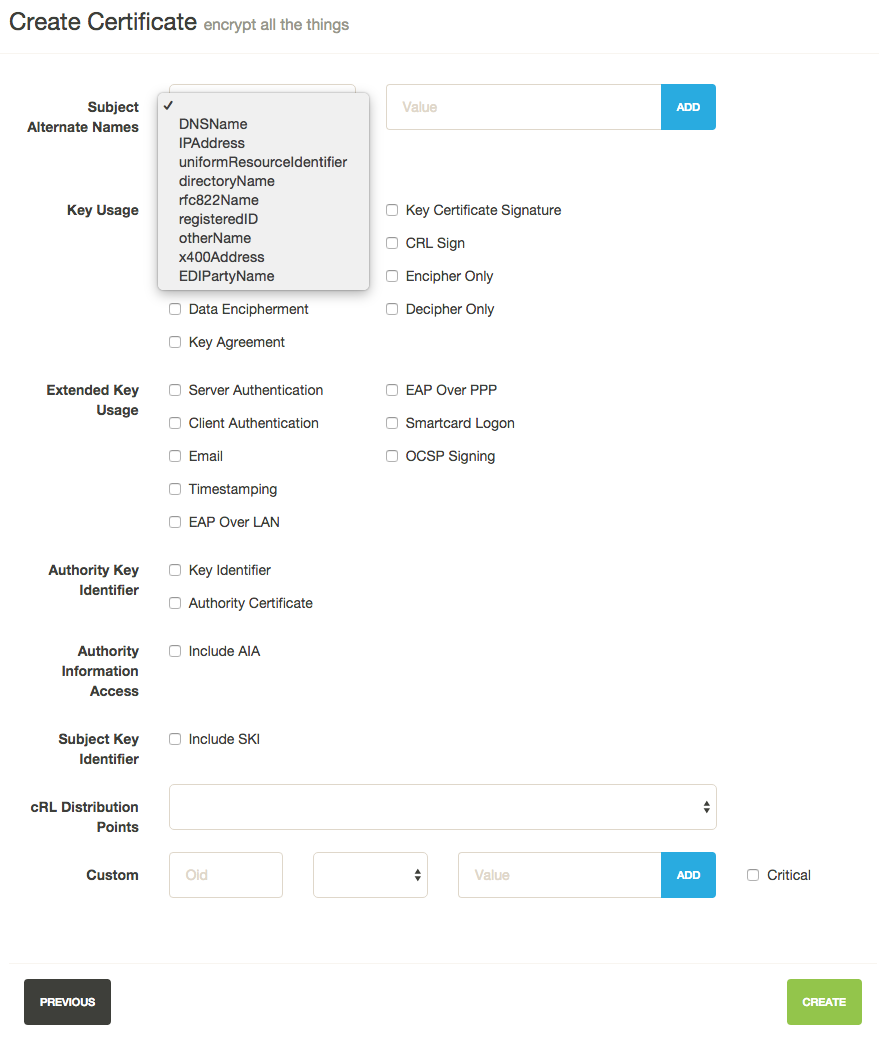
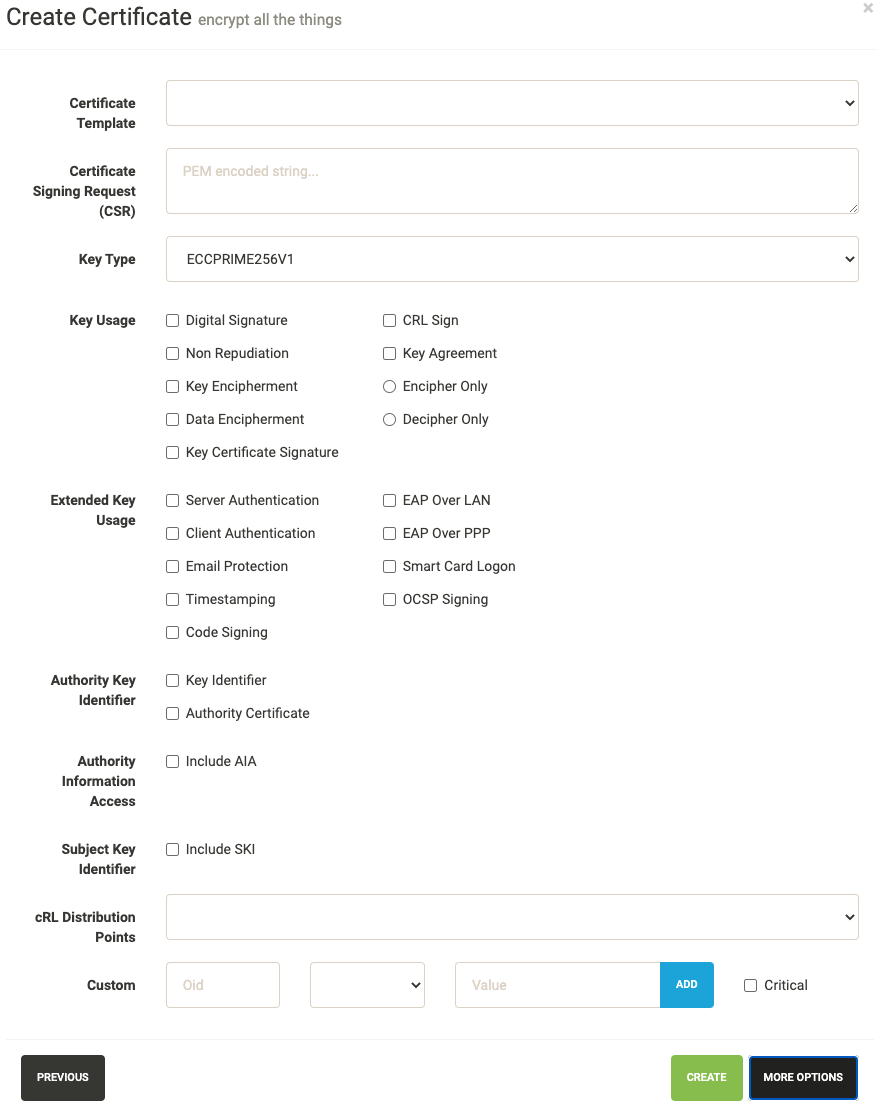
Updating user guide

diff --git a/docs/guide/index.rst b/docs/guide/index.rst
@@ -37,18 +37,20 @@ Create a New Certificate
 
 .. figure:: create_certificate.png
 
-    Enter an owner, short description and the authority you wish to issue this certificate.
-    Enter a common name into the certificate, if no validity range is selected two years is
-    the default.
+    Enter an owner, common name, short description and certificate authority you wish to issue this certificate.
+    Depending upon the selected CA, the UI displays default validity of the certificate. You can select different
+    validity by entering a custom date, if supported by the CA.
+
+    You can also add `Subject Alternate Names` or SAN for certificates that need to include more than one domains,
+    The first domain is the Common Name and all other domains are added here as DNSName entries.
 
     You can add notification options and upload the created certificate to a destination, both
     of these are editable features and can be changed after the certificate has been created.
 
 .. figure:: certificate_extensions.png
 
-    These options are typically for advanced users, the one exception is the `Subject Alternate Names` or SAN.
-    For certificates that need to include more than one domains, the first domain is the Common Name and all
-    other domains are added here as DNSName entries.
+    These options are typically for advanced users. Lemur creates ECC based certificate (ECCPRIME256V1 in particular)
+    by default. One can change the key type using the dropdown option listed here.
 
 
 Import an Existing Certificate
@@ -58,7 +60,7 @@ Import an Existing Certificate
 
     Enter an owner, short description and public certificate. If there are intermediates and private keys
     Lemur will track them just as it does if the certificate were created through Lemur. Lemur generates
-    a certificate name but you can override that by passing a value to the `Custom Name` field.
+    a certificate name but you can override that by passing a value to the `Custom Certificate Name` field.
 
     You can add notification options and upload the created certificate to a destination, both
     of these are editable features and can be changed after the certificate has been created.
